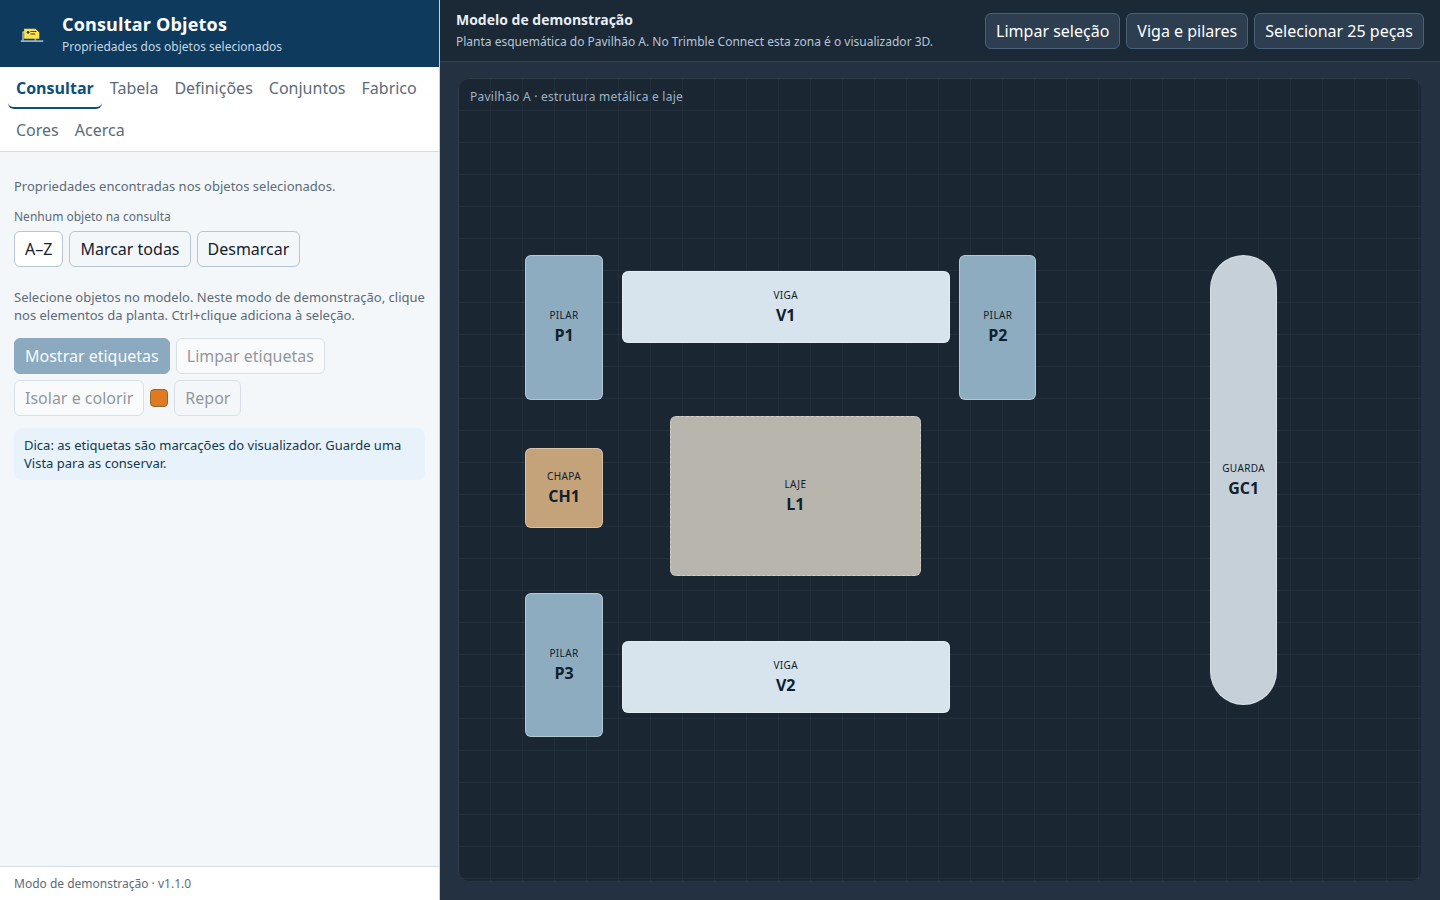
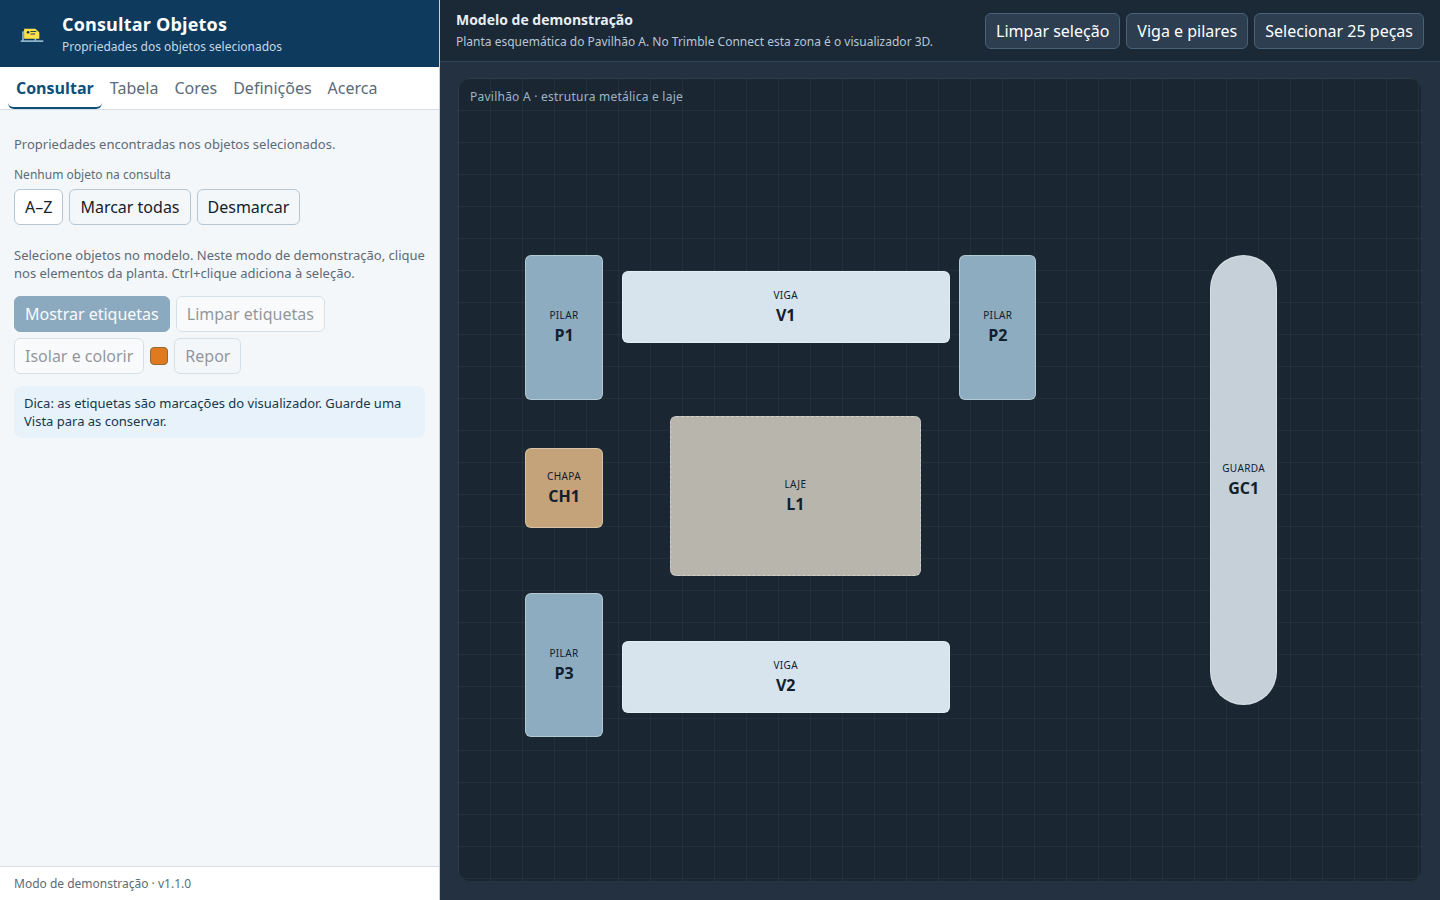
Hide the Conjuntos and Fabrico tabs for now.
They stay in the code behind FEATURES.conjuntos and FEATURES.fabrico. The visible order is Consultar, Tabela, Cores, Definições, Acerca, and Cores uses the model's own properties.

Changed region(s): [[0.0, 0.1244, 0.2812, 0.5289], [0.125, 0.0933, 0.2812, 0.1244]]

diff --git a/src/ui/app.ts b/src/ui/app.ts
@@ -29,6 +29,7 @@ import { isDemoHost } from "../host/types";
 import { fabricoDetailHtml, filterMappingRows, readFabricForm, reportHtml } from "./fabrico";
 import { escapeHtml, plural, setHtml } from "./html";
 import { PROGRESS_DELAY_MS } from "../host/selectionGate";
+import { FEATURES } from "../features";
 
 declare global {
   interface Window {
@@ -69,10 +70,10 @@ interface UiState {
 const TABS: Array<{ id: TabId; label: string }> = [
   { id: "consultar", label: "Consultar" },
   { id: "tabela", label: "Tabela" },
-  { id: "definicoes", label: "Definições" },
-  { id: "conjuntos", label: "Conjuntos" },
-  { id: "fabrico", label: "Fabrico" },
   { id: "cores", label: "Cores" },
+  { id: "definicoes", label: "Definições" },
+  ...(FEATURES.conjuntos ? [{ id: "conjuntos" as const, label: "Conjuntos" }] : []),
+  ...(FEATURES.fabrico ? [{ id: "fabrico" as const, label: "Fabrico" }] : []),
   { id: "acerca", label: "Acerca" },
 ];
 
@@ -110,7 +111,7 @@ export async function startApp(root: HTMLElement, host: ViewerHost): Promise<voi
     tablePage: 0,
   };
   ui.projectId = await host.projectId();
-  ui.dataset = loadDataset(localStorage, ui.projectId);
+  ui.dataset = FEATURES.fabrico ? loadDataset(localStorage, ui.projectId) : null;
 
   const columnInfo = await host.loadColumnSets();
   if (columnInfo && columnInfo.sets.length > 0) {
@@ -966,6 +967,14 @@ function downloadCsv(content: string): void {
   URL.revokeObjectURL(url);
 }
 
+function storedLocally(): string {
+  const parts = [
+    FEATURES.conjuntos ? "os conjuntos de propriedades" : "",
+    FEATURES.fabrico ? "os dados de fabrico" : "",
+  ].filter(Boolean);
+  return parts.length === 0 ? "" : ` ${parts.join(" e ")} ficam guardados apenas neste navegador.`;
+}
+
 function shell(host: ViewerHost): string {
   const icon = `${import.meta.env.BASE_URL}icon.svg`;
   const stage = isDemoHost(host) ? demoStage(host.pieces()) : "";
@@ -1053,7 +1062,7 @@ function shell(host: ViewerHost): string {
         <p class="hint">As etiquetas são colocadas em todos os objetos selecionados. Numa seleção grande, o visualizador recebe as marcações em lotes e a colocação pode ser cancelada.</p>
         <p class="tip">Dica: depois de colocar as etiquetas, guarde uma Vista no menu Views do Trimble Connect.</p>
       </div>
-      <div id="panel-conjuntos" role="tabpanel" aria-labelledby="tab-conjuntos" hidden>
+      ${FEATURES.conjuntos ? `<div id="panel-conjuntos" role="tabpanel" aria-labelledby="tab-conjuntos" hidden>
         <p class="hint">Guarde a lista de propriedades marcadas com um nome. Fica neste navegador, não no projeto. Exemplo: «Aço: perfil, material, peso».</p>
         <label class="field">Nome do conjunto
           <span class="inline">
@@ -1062,8 +1071,8 @@ function shell(host: ViewerHost): string {
           </span>
         </label>
         <div id="sets-list" class="sets" data-testid="lista-conjuntos"></div>
-      </div>
-      <div id="panel-fabrico" role="tabpanel" aria-labelledby="tab-fabrico" hidden>
+      </div>` : ""}
+      ${FEATURES.fabrico ? `<div id="panel-fabrico" role="tabpanel" aria-labelledby="tab-fabrico" hidden>
         <p class="hint">Importe um Excel ou CSV de fabrico. A coluna chave liga cada linha a um objeto (por exemplo Conjunto). Os valores ficam neste navegador, por projeto, e aparecem nas etiquetas e na tabela. Não são gravados no ficheiro do modelo.</p>
         <label class="field">Ficheiro
           <input id="ficheiro-fabrico" data-testid="ficheiro-fabrico" type="file" accept=".xlsx,.xls,.csv,application/vnd.openxmlformats-officedocument.spreadsheetml.sheet,text/csv" />
@@ -1073,7 +1082,7 @@ function shell(host: ViewerHost): string {
         </label>
         <div id="fabrico-relatorio"></div>
         <div id="fabrico-mapa"></div>
-      </div>
+      </div>` : ""}
       <div id="panel-cores" role="tabpanel" aria-labelledby="tab-cores" hidden>
         <p class="hint">Pinte o modelo segundo uma propriedade. Percentagens e datas usam um gradiente, do vermelho ao verde; o resto usa uma cor por categoria.</p>
         <label class="field">Propriedade
@@ -1096,7 +1105,7 @@ function shell(host: ViewerHost): string {
         <div class="about">
           <p><strong>Consultar Objetos</strong> · versão ${APP_VERSION}</p>
           <p>Extensão do visualizador 3D do Trimble Connect para consultar peças do modelo: etiquetas junto dos objetos, tabela comparativa e CSV para aprovisionamento.</p>
-          <p>Inspirada no Inquire Objects da Construsoft, sem depender dessa licença. Os conjuntos de propriedades e os dados de fabrico ficam guardados apenas neste navegador.</p>
+          <p>Inspirada no Inquire Objects da Construsoft, sem depender dessa licença.${storedLocally()}</p>
           <ul>
             <li>As etiquetas são colocadas em todos os objetos selecionados, em lotes, com progresso e um botão para cancelar. Limpar etiquetas remove todas as que esta extensão criou.</li>
             <li>As unidades seguem a API: comprimentos em mm, áreas em m², volumes em m³, massas em kg.</li>

diff --git a/tests/e2e/fabrico.spec.ts b/tests/e2e/fabrico.spec.ts
@@ -1,50 +1,7 @@
 import { expect, test } from "@playwright/test";
 
-const workbook = "tests/fixtures/fabrico-mini.xlsx";
-
-test.beforeEach(async ({ page }) => {
+test("o separador Fabrico fica fora do painel", async ({ page }) => {
   await page.goto("/?demo=1");
-  await page.getByRole("tab", { name: "Fabrico" }).click();
-});
-
-test("importa o Excel, liga os conjuntos e mostra o relatório", async ({ page }) => {
-  await page.getByTestId("ficheiro-fabrico").setInputFiles(workbook);
-  await expect(page.getByTestId("linha-cabecalho")).toHaveValue("8");
-  await expect(page.getByTestId("tabela-mapeamento").getByText("Corte · Data", { exact: true })).toBeVisible();
-  await expect(page.getByTestId("coluna-chave")).toHaveValue("1");
-  await expect(page.getByTestId("propriedade-chave")).toHaveValue("Identificação||Conjunto");
-
-  await page.getByTestId("linha-cabecalho").fill("7");
-  await page.getByTestId("linha-cabecalho").press("Enter");
-  await expect(page.getByTestId("tabela-mapeamento").getByText("Corte · Data", { exact: true })).toHaveCount(0);
-
-  await page.getByTestId("linha-cabecalho").fill("8");
-  await page.getByTestId("linha-cabecalho").press("Enter");
-  await expect(page.getByTestId("tabela-mapeamento").getByText("Corte · Data", { exact: true })).toBeVisible();
-
-  await page.getByTestId("aplicar-importacao").click();
-  await expect(page.getByTestId("objetos-ligados")).toHaveText("7 objetos com linha");
-  await expect(page.getByTestId("linhas-sem-objeto")).toContainText("ZSCA99-0");
-  await expect(page.getByTestId("linhas-sem-objeto")).toContainText("ZSCA15-0");
-  await expect(page.getByTestId("objetos-sem-linha")).toContainText("Laje L1");
-
-  await page.getByRole("tab", { name: "Consultar" }).click();
-  await page.getByRole("button", { name: "Viga V1" }).click();
-  await expect(page.getByRole("checkbox", { name: "Fabrico / Corte · %" })).toBeVisible();
-  await expect(page.locator(".check", { hasText: "Corte · %" })).toContainText("60%");
-
-  await page.reload();
-  await page.getByRole("tab", { name: "Fabrico" }).click();
-  await expect(page.getByTestId("objetos-ligados")).toHaveText("7 objetos com linha");
-});
-
-test("guarda o mapeamento e volta a aplicá-lo", async ({ page }) => {
-  await page.getByTestId("ficheiro-fabrico").setInputFiles(workbook);
-  await page.getByTestId("nome-mapeamento").fill("Obra demo");
-  await page.getByTestId("guardar-mapeamento").click();
-  await page.reload();
-  await page.getByRole("tab", { name: "Fabrico" }).click();
-  await page.getByTestId("ficheiro-fabrico").setInputFiles(workbook);
-  await expect(page.getByTestId("nome-mapeamento")).toHaveValue("Obra demo");
-  await expect(page.getByRole("checkbox", { name: "Importar Corte · Data" })).toBeChecked();
+  await expect(page.getByRole("tab", { name: "Fabrico" })).toHaveCount(0);
+  await expect(page.getByTestId("ficheiro-fabrico")).toHaveCount(0);
 });

diff --git a/tests/e2e/screenshots.spec.ts b/tests/e2e/screenshots.spec.ts
@@ -67,46 +67,13 @@ test("06 isolar e colorir", async ({ page }) => {
   await shot(page, "06-isolar-e-colorir.png");
 });
 
-test("08 mapeamento de colunas", async ({ page }) => {
-  await page.getByRole("tab", { name: "Fabrico" }).click();
-  await page.getByTestId("ficheiro-fabrico").setInputFiles("tests/fixtures/fabrico-mini.xlsx");
-  await page.getByTestId("filtrar-colunas").fill("Corte");
-  await expect(page.getByTestId("tabela-mapeamento").getByText("Corte · Data", { exact: true })).toBeVisible();
-  await shot(page, "08-mapeamento-colunas.png");
-});
-
-test("09 relatório de correspondência", async ({ page }) => {
-  await page.getByRole("tab", { name: "Fabrico" }).click();
-  await page.getByTestId("ficheiro-fabrico").setInputFiles("tests/fixtures/fabrico-mini.xlsx");
-  await page.getByTestId("aplicar-importacao").click();
-  await expect(page.getByTestId("relatorio")).toContainText("Laje L1");
-  await shot(page, "09-relatorio-correspondencia.png");
-});
-
 test("10 cores com legenda", async ({ page }) => {
-  await page.getByRole("tab", { name: "Fabrico" }).click();
-  await page.getByTestId("ficheiro-fabrico").setInputFiles("tests/fixtures/fabrico-mini.xlsx");
-  await page.getByTestId("aplicar-importacao").click();
   await page.getByRole("tab", { name: "Cores" }).click();
-  await page.getByTestId("propriedade-cor").selectOption({ label: "Fabrico / Corte · %" });
+  await expect(page.getByTestId("propriedade-cor").locator("option", { hasText: "Material / Grau" })).toBeAttached();
+  await page.getByTestId("propriedade-cor").selectOption({ label: "Material / Grau" });
   await page.getByTestId("aplicar-cores").click();
-  await expect(page.getByTestId("legenda")).toContainText("100%");
+  await expect(page.getByTestId("legenda")).toContainText("S275JR");
+  await expect(page.getByTestId("legenda")).toContainText("S355");
   await expect(page.locator(".piece.is-colored")).toHaveCount(8);
   await shot(page, "10-cores-legenda.png");
-});
-
-test("07 conjuntos de propriedades", async ({ page }) => {
-  await page.getByRole("tab", { name: "Definições" }).click();
-  await page.getByTestId("conjunto-colunas").selectOption("");
-  await page.getByRole("tab", { name: "Consultar" }).click();
-  await page.getByRole("button", { name: "Laje L1" }).click();
-  await page.getByRole("checkbox", { name: "Material / Grau" }).check();
-  await page.getByRole("checkbox", { name: "Quantidades / Volume" }).check();
-  await page.getByRole("tab", { name: "Conjuntos" }).click();
-  await page.getByTestId("nome-conjunto").fill("Betão: classe, volume");
-  await page.getByTestId("guardar-conjunto").click();
-  await page.getByRole("button", { name: "Aplicar" }).first().click();
-  await expect(page.getByText("Em uso")).toBeVisible();
-  await expect(page.getByRole("heading", { name: "Betão: classe, volume" })).toBeVisible();
-  await shot(page, "07-conjuntos-de-propriedades.png");
 });

diff --git a/tests/e2e/demo.spec.ts b/tests/e2e/demo.spec.ts
@@ -155,26 +155,18 @@ test("coloca etiquetas em todos os objetos da seleção", async ({ page }) => {
   await expect(page.getByTestId("linha-total")).toBeVisible();
 });
 
-test("guarda e aplica conjuntos de propriedades neste navegador", async ({ page }) => {
+test("mostra os separadores por esta ordem, sem Conjuntos nem Fabrico", async ({ page }) => {
+  await expect(page.getByRole("tab")).toHaveText(["Consultar", "Tabela", "Cores", "Definições", "Acerca"]);
+  await expect(page.getByRole("tab", { name: "Conjuntos" })).toHaveCount(0);
+  await expect(page.getByRole("tab", { name: "Fabrico" })).toHaveCount(0);
+  await expect(page.getByRole("heading", { name: "Aço: perfil, material, peso" })).toHaveCount(0);
   await page.getByRole("button", { name: "Viga V1" }).click();
-  await page.getByRole("tab", { name: "Conjuntos" }).click();
-  await expect(page.getByRole("heading", { name: "Aço: perfil, material, peso" })).toBeVisible();
-  await page.getByRole("button", { name: "Aplicar" }).click();
-  await page.getByRole("tab", { name: "Consultar" }).click();
-  await expect(page.getByRole("checkbox", { name: "Perfil / Nome" })).toBeChecked();
-  await expect(page.getByRole("checkbox", { name: "Material / Grau" })).toBeChecked();
-  await expect(page.getByRole("checkbox", { name: "Quantidades / Peso" })).toBeChecked();
-  await expect(page.getByRole("checkbox", { name: "Identificação / Nome" })).not.toBeChecked();
-
-  await page.getByRole("tab", { name: "Conjuntos" }).click();
-  await page.getByTestId("nome-conjunto").fill("Betão: classe, volume");
-  await page.getByTestId("guardar-conjunto").click();
-  await expect(page.getByRole("heading", { name: "Betão: classe, volume" })).toBeVisible();
-
-  await page.reload();
-  await page.getByRole("tab", { name: "Conjuntos" }).click();
-  await expect(page.getByRole("heading", { name: "Aço: perfil, material, peso" })).toBeVisible();
-  await expect(page.getByRole("heading", { name: "Betão: classe, volume" })).toBeVisible();
+  await expect(page.getByRole("checkbox", { name: /Fabrico/ })).toHaveCount(0);
+  await page.getByRole("tab", { name: "Cores" }).click();
+  await expect(page.getByTestId("propriedade-cor").locator("option").first()).toBeAttached();
+  const labels = await page.getByTestId("propriedade-cor").locator("option").allTextContents();
+  expect(labels.some((label) => label.includes("Fabrico"))).toBe(false);
+  expect(labels.some((label) => label.includes("Material / Grau"))).toBe(true);
 });
 
 test("usa as propriedades do modelo quando a tabela de dados não existe", async ({ page }) => {

diff --git a/tests/e2e/cores.spec.ts b/tests/e2e/cores.spec.ts
@@ -1,15 +1,13 @@
 import { expect, test } from "@playwright/test";
 
-test("pinta o modelo pelo progresso de corte e repõe as cores", async ({ page }) => {
+test("pinta o modelo pelo grau do material e repõe as cores", async ({ page }) => {
   await page.goto("/?demo=1");
-  await page.getByRole("tab", { name: "Fabrico" }).click();
-  await page.getByTestId("ficheiro-fabrico").setInputFiles("tests/fixtures/fabrico-mini.xlsx");
-  await page.getByTestId("aplicar-importacao").click();
   await page.getByRole("tab", { name: "Cores" }).click();
-  await page.getByTestId("propriedade-cor").selectOption({ label: "Fabrico / Corte · %" });
+  await expect(page.getByTestId("propriedade-cor").locator("option", { hasText: "Material / Grau" })).toBeAttached();
+  await page.getByTestId("propriedade-cor").selectOption({ label: "Material / Grau" });
   await page.getByTestId("aplicar-cores").click();
-  await expect(page.getByTestId("legenda")).toContainText("0%");
-  await expect(page.getByTestId("legenda")).toContainText("100%");
+  await expect(page.getByTestId("legenda")).toContainText("S275JR");
+  await expect(page.getByTestId("legenda")).toContainText("S355");
   const colorOf = (name: string) => page.getByRole("button", { name }).evaluate((element) => getComputedStyle(element).backgroundColor);
   const beam = await colorOf("Viga V1");
   const column = await colorOf("Pilar P1");

diff --git a/src/features.ts b/src/features.ts
@@ -1,0 +1,8 @@
+/**
+ * Switches for parts of the panel that stay in the code but are hidden for now.
+ * Set a flag to true to bring that tab back.
+ */
+export const FEATURES = {
+  conjuntos: false,
+  fabrico: false,
+} as const;

diff --git a/README.md b/README.md
@@ -54,35 +54,11 @@ O separador **Tabela** põe cada peça numa linha e cada propriedade marcada num
 
 ![Viga e dois pilares isolados a laranja e o resto da planta esbatido](docs/imagens/06-isolar-e-colorir.png)
 
-### 7. Conjuntos de propriedades
+### 7. Cores
 
-Em **Conjuntos**, guarde a lista marcada com um nome, por exemplo `Aço: perfil, material, peso`. **Aplicar** volta a marcar essas propriedades. **Eliminar** tira o conjunto deste navegador.
+No separador **Cores**, escolha uma propriedade do modelo, por exemplo o grau do material. As percentagens e as datas recebem um gradiente, do vermelho ao verde; os textos recebem uma cor por categoria. A legenda fica no painel. **Repor** devolve as cores do modelo.
 
-Os conjuntos ficam em `localStorage`, neste computador e neste endereço. Não são gravados no projeto do Trimble Connect.
-
-![Conjunto de aço em uso e conjunto de betão guardado](docs/imagens/07-conjuntos-de-propriedades.png)
-
-### 8. Importar o Excel de fabrico
-
-No separador **Fabrico**, escolha um `.xlsx` ou `.csv`. A linha de cabeçalho é detetada (na folha de produção de exemplo é a linha 8; as linhas anteriores são título, cliente e totais) e pode ser corrigida à mão. As colunas repetidas, como Data ou %, ficam com o nome do grupo que está por cima: `Corte · Data`, `Expedição · %`.
-
-A coluna chave (por exemplo **Conjunto**) liga cada linha à propriedade do modelo que escolher (no modo de demonstração, `Identificação / Conjunto`, com marcas como `ZSCA11-0`). As outras colunas mapeiam-se para um conjunto de propriedades, por omissão `Fabrico`. **Guardar mapeamento** memoriza esta correspondência neste navegador.
-
-![Mapeamento das colunas do Excel, com a chave Conjunto e a coluna Corte · Data](docs/imagens/08-mapeamento-colunas.png)
-
-**Aplicar importação** grava os valores e mostra o relatório: linhas com objeto, linhas sem objeto e objetos sem linha. Quando a mesma marca aparece em várias linhas, fica a linha de tipo Conjunto.
-
-![Relatório com 7 objetos ligados, linhas ZSCA99-0 e ZSCA15-0 por ligar e a laje sem linha](docs/imagens/09-relatorio-correspondencia.png)
-
-Uma célula de data com várias entradas (`17/09/2026 - 149` e `18/09/2026 - 13`) passa a ser a última data e a quantidade somada (`18/09/2026 · 162`). As percentagens entram como progresso da etapa.
-
-Estes dados **não são escritos no ficheiro do modelo**. Ficam neste navegador, separados por projeto, e passam a aparecer nas etiquetas, na tabela e nas cores como se fossem propriedades. Para os gravar de forma permanente no Trimble Connect seria preciso um token (`extension.requestPermission("accesstoken")`, entregue no evento `extension.accessToken`) e a API de property sets do Trimble Connect, em geral com uma aplicação registada na Developer Console. O visualizador não tem uma chamada para gravar propriedades no modelo, por isso esta versão não o faz.
-
-### 9. Cores segundo o fabrico
-
-No separador **Cores**, escolha uma propriedade — estado, máquina, processo, percentagem ou data de uma etapa. As percentagens e as datas recebem um gradiente, do vermelho ao verde; os textos recebem uma cor por categoria. A legenda fica no painel. **Repor** devolve as cores do modelo.
-
-![Modelo colorido pelo progresso de corte, com a legenda de 0% a 100%](docs/imagens/10-cores-legenda.png)
+![Modelo colorido pelo grau do material, com a legenda das categorias](docs/imagens/10-cores-legenda.png)
 
 ## Instalar no Trimble Connect
 
@@ -111,7 +87,7 @@ Para a lista seguir os seus presets, crie primeiro um conjunto de colunas na **T
 
 ## O que só se confirma dentro do Trimble Connect
 
-O modo de demonstração cobre o painel, a seleção, as etiquetas, a tabela, o CSV, o isolamento e os conjuntos. Estes pontos dependem do visualizador real e não ficam provados pelos testes automáticos:
+O modo de demonstração cobre o painel, a seleção, as etiquetas, a tabela, o CSV, o isolamento e as cores. Estes pontos dependem do visualizador real e não ficam provados pelos testes automáticos:
 
 - o carregamento do manifesto em **Apps & Capabilities** (plano, permissões e CORS visto pelo domínio do Trimble Connect);
 - o evento `viewer.onSelectionChanged` e `viewer.getObjectProperties` com um modelo IFC ou Tekla;
@@ -133,13 +109,15 @@ npm run dev
 
 Abra <http://127.0.0.1:5173/?demo=1>. `?semTabela=1` simula a Tabela de dados indisponível. Dentro de um iframe, a página tenta ligar-se ao Trimble Connect com `trimble-connect-workspace-api`; se a ligação falhar, o painel explica o erro e oferece o modo de demonstração.
 
+Os separadores **Conjuntos** e **Fabrico** estão desligados em `src/features.ts` (`FEATURES.conjuntos` e `FEATURES.fabrico`). O código permanece; para os voltar a mostrar basta pôr o respetivo valor a `true`. Com os dois desligados, a ordem dos separadores é Consultar, Tabela, Cores, Definições, Acerca.
+
 ```bash
 npm test
 npm run test:e2e
 npm run build
 ```
 
-`npm test` corre a formatação, o texto das etiquetas, a criação das marcações em lotes, o CSV e os conjuntos. `npm run test:e2e` abre o modo de demonstração no Chromium e percorre o painel. Para voltar a gerar as imagens de `docs/imagens/`:
+`npm test` corre a formatação, o texto das etiquetas, a criação das marcações em lotes, o CSV, os atributos de produto e a leitura da seleção. `npm run test:e2e` abre o modo de demonstração no Chromium e percorre o painel. Para voltar a gerar as imagens de `docs/imagens/`:
 
 ```bash
 npx playwright test tests/e2e/screenshots.spec.ts
